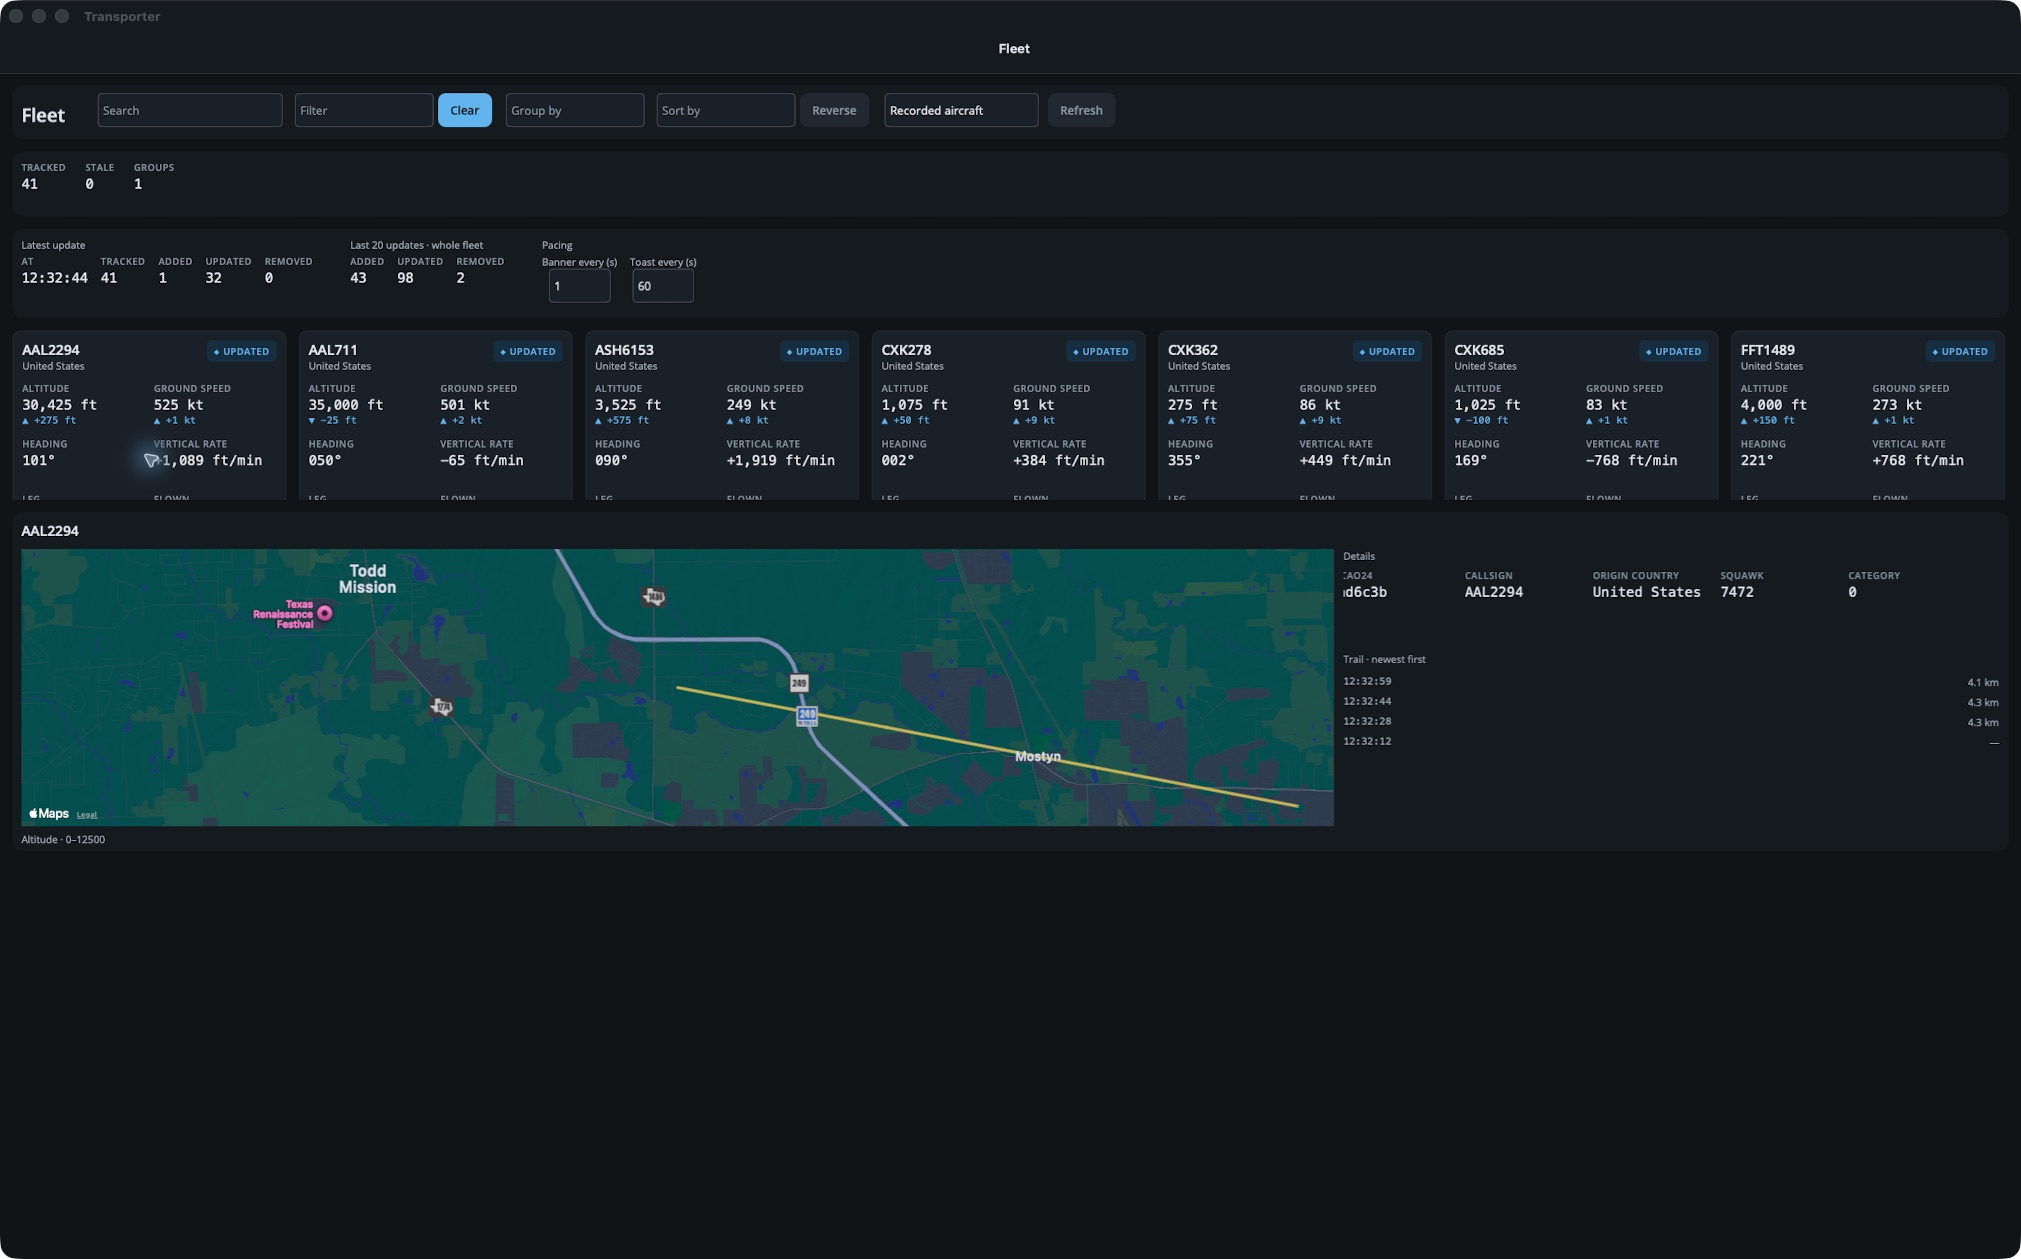
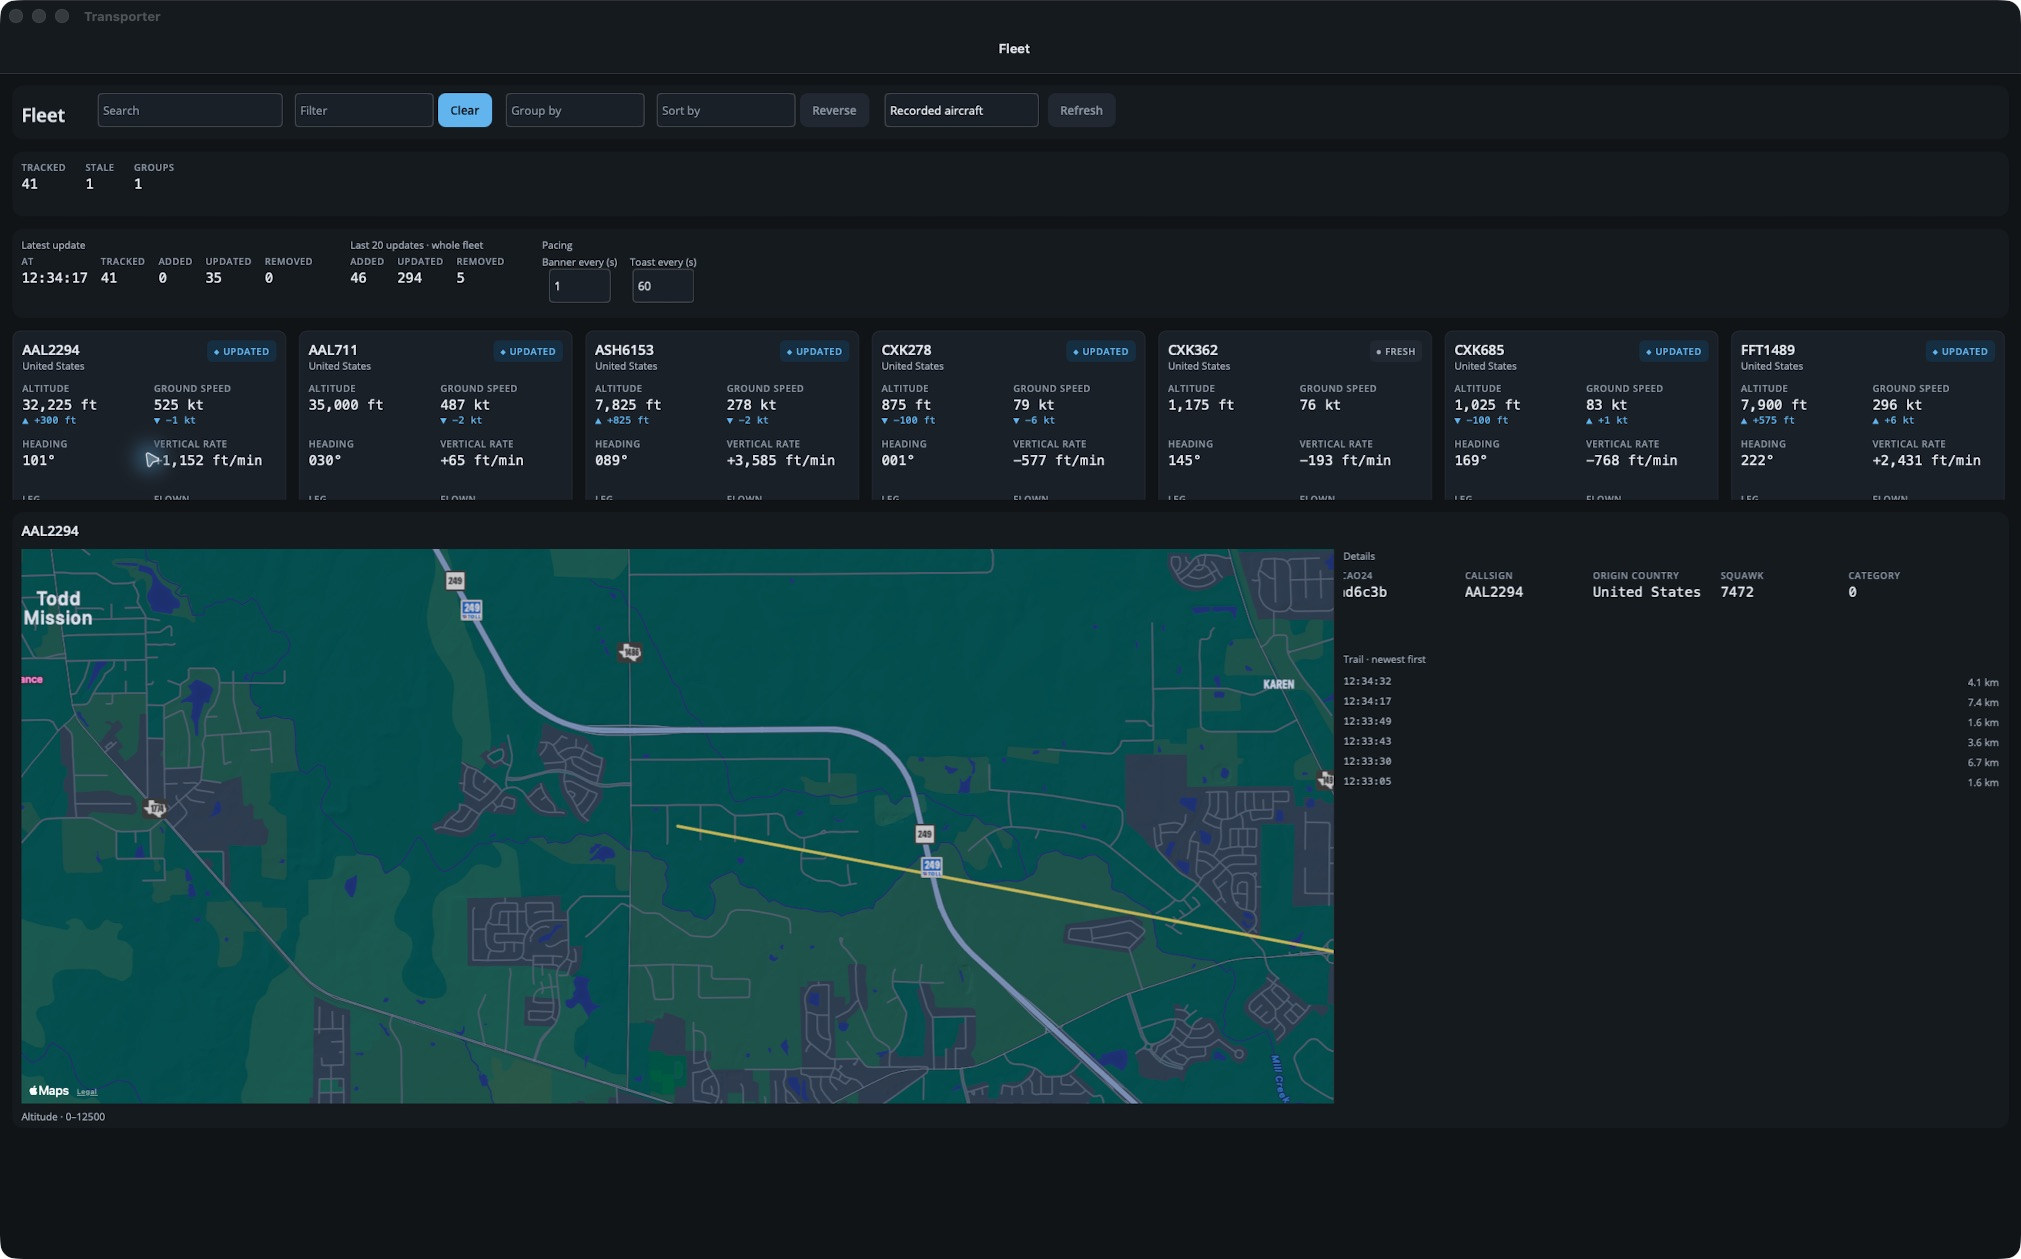
feature(0071): give trail map a 720-point viewport
Delivers 0071

B-034 and B-035 keep the same selected-trail behavior. The user asked for
twice the previous map height for the demo; § 8 and the item record the
720-point viewport, and the detail panel grows to fit it.

Verified with ./build.sh, 586 unit tests, and the running Mac Catalyst
recorded-aircraft demo. No claim remains Missing for 0071.

diff --git a/src/Gui/Views/FleetPage.cs b/src/Gui/Views/FleetPage.cs
@@ -78,7 +78,7 @@ public class FleetPage : ContentPage
                 new RowDefinition(GridLength.Auto),
                 new RowDefinition(GridLength.Auto),
                 new RowDefinition(new GridLength(220)),
-                new RowDefinition(new GridLength(440))),
+                new RowDefinition(new GridLength(800))),
             RowSpacing = FlightDeck.Space4,
             Padding = FlightDeck.Space4,
             Children =
@@ -365,7 +365,7 @@ public class FleetPage : ContentPage
                 mapAndTrail,
             },
         });
-        panel.HeightRequest = 440;
+        panel.HeightRequest = 800;
         return panel;
     }
 

diff --git a/src/Gui/Components/TrailMap.cs b/src/Gui/Components/TrailMap.cs
@@ -15,7 +15,7 @@ public sealed class TrailMap : ContentView
     /// <summary>Initializes a new instance of the <see cref="TrailMap"/> class.</summary>
     public TrailMap()
     {
-        _map = new Map { MapType = MapType.Street, HeightRequest = 360, IsShowingUser = false };
+        _map = new Map { MapType = MapType.Street, HeightRequest = 720, IsShowingUser = false };
         _map.Loaded += (_, _) => ShowPendingRegion();
         _legend = new Label { Style = FlightDeckStyles.Caption, TextColor = FlightDeck.InkSecondary };
         Content = new VerticalStackLayout

diff --git a/src/Transporter/Features/Fleet/.spec/README.md b/src/Transporter/Features/Fleet/.spec/README.md
@@ -600,7 +600,7 @@ LastContact)`, run when `Observed` or the element changes and on no timer
   style. A legend under the map names the measure and its range.
 - **The list** binds `FleetDetailViewModel.Trail` in a `CollectionView` beside
   the map: the contact as a clock time and the distance from the point before
-  (B-035). The selected detail pane gives the map a 360-point viewport; the
+  (B-035). The selected detail pane gives the map a 720-point viewport; the
   fleet cards keep a 220-point scrolling viewport above it for the demo.
 
 **The next poll (B-036), designed for `0072`**
